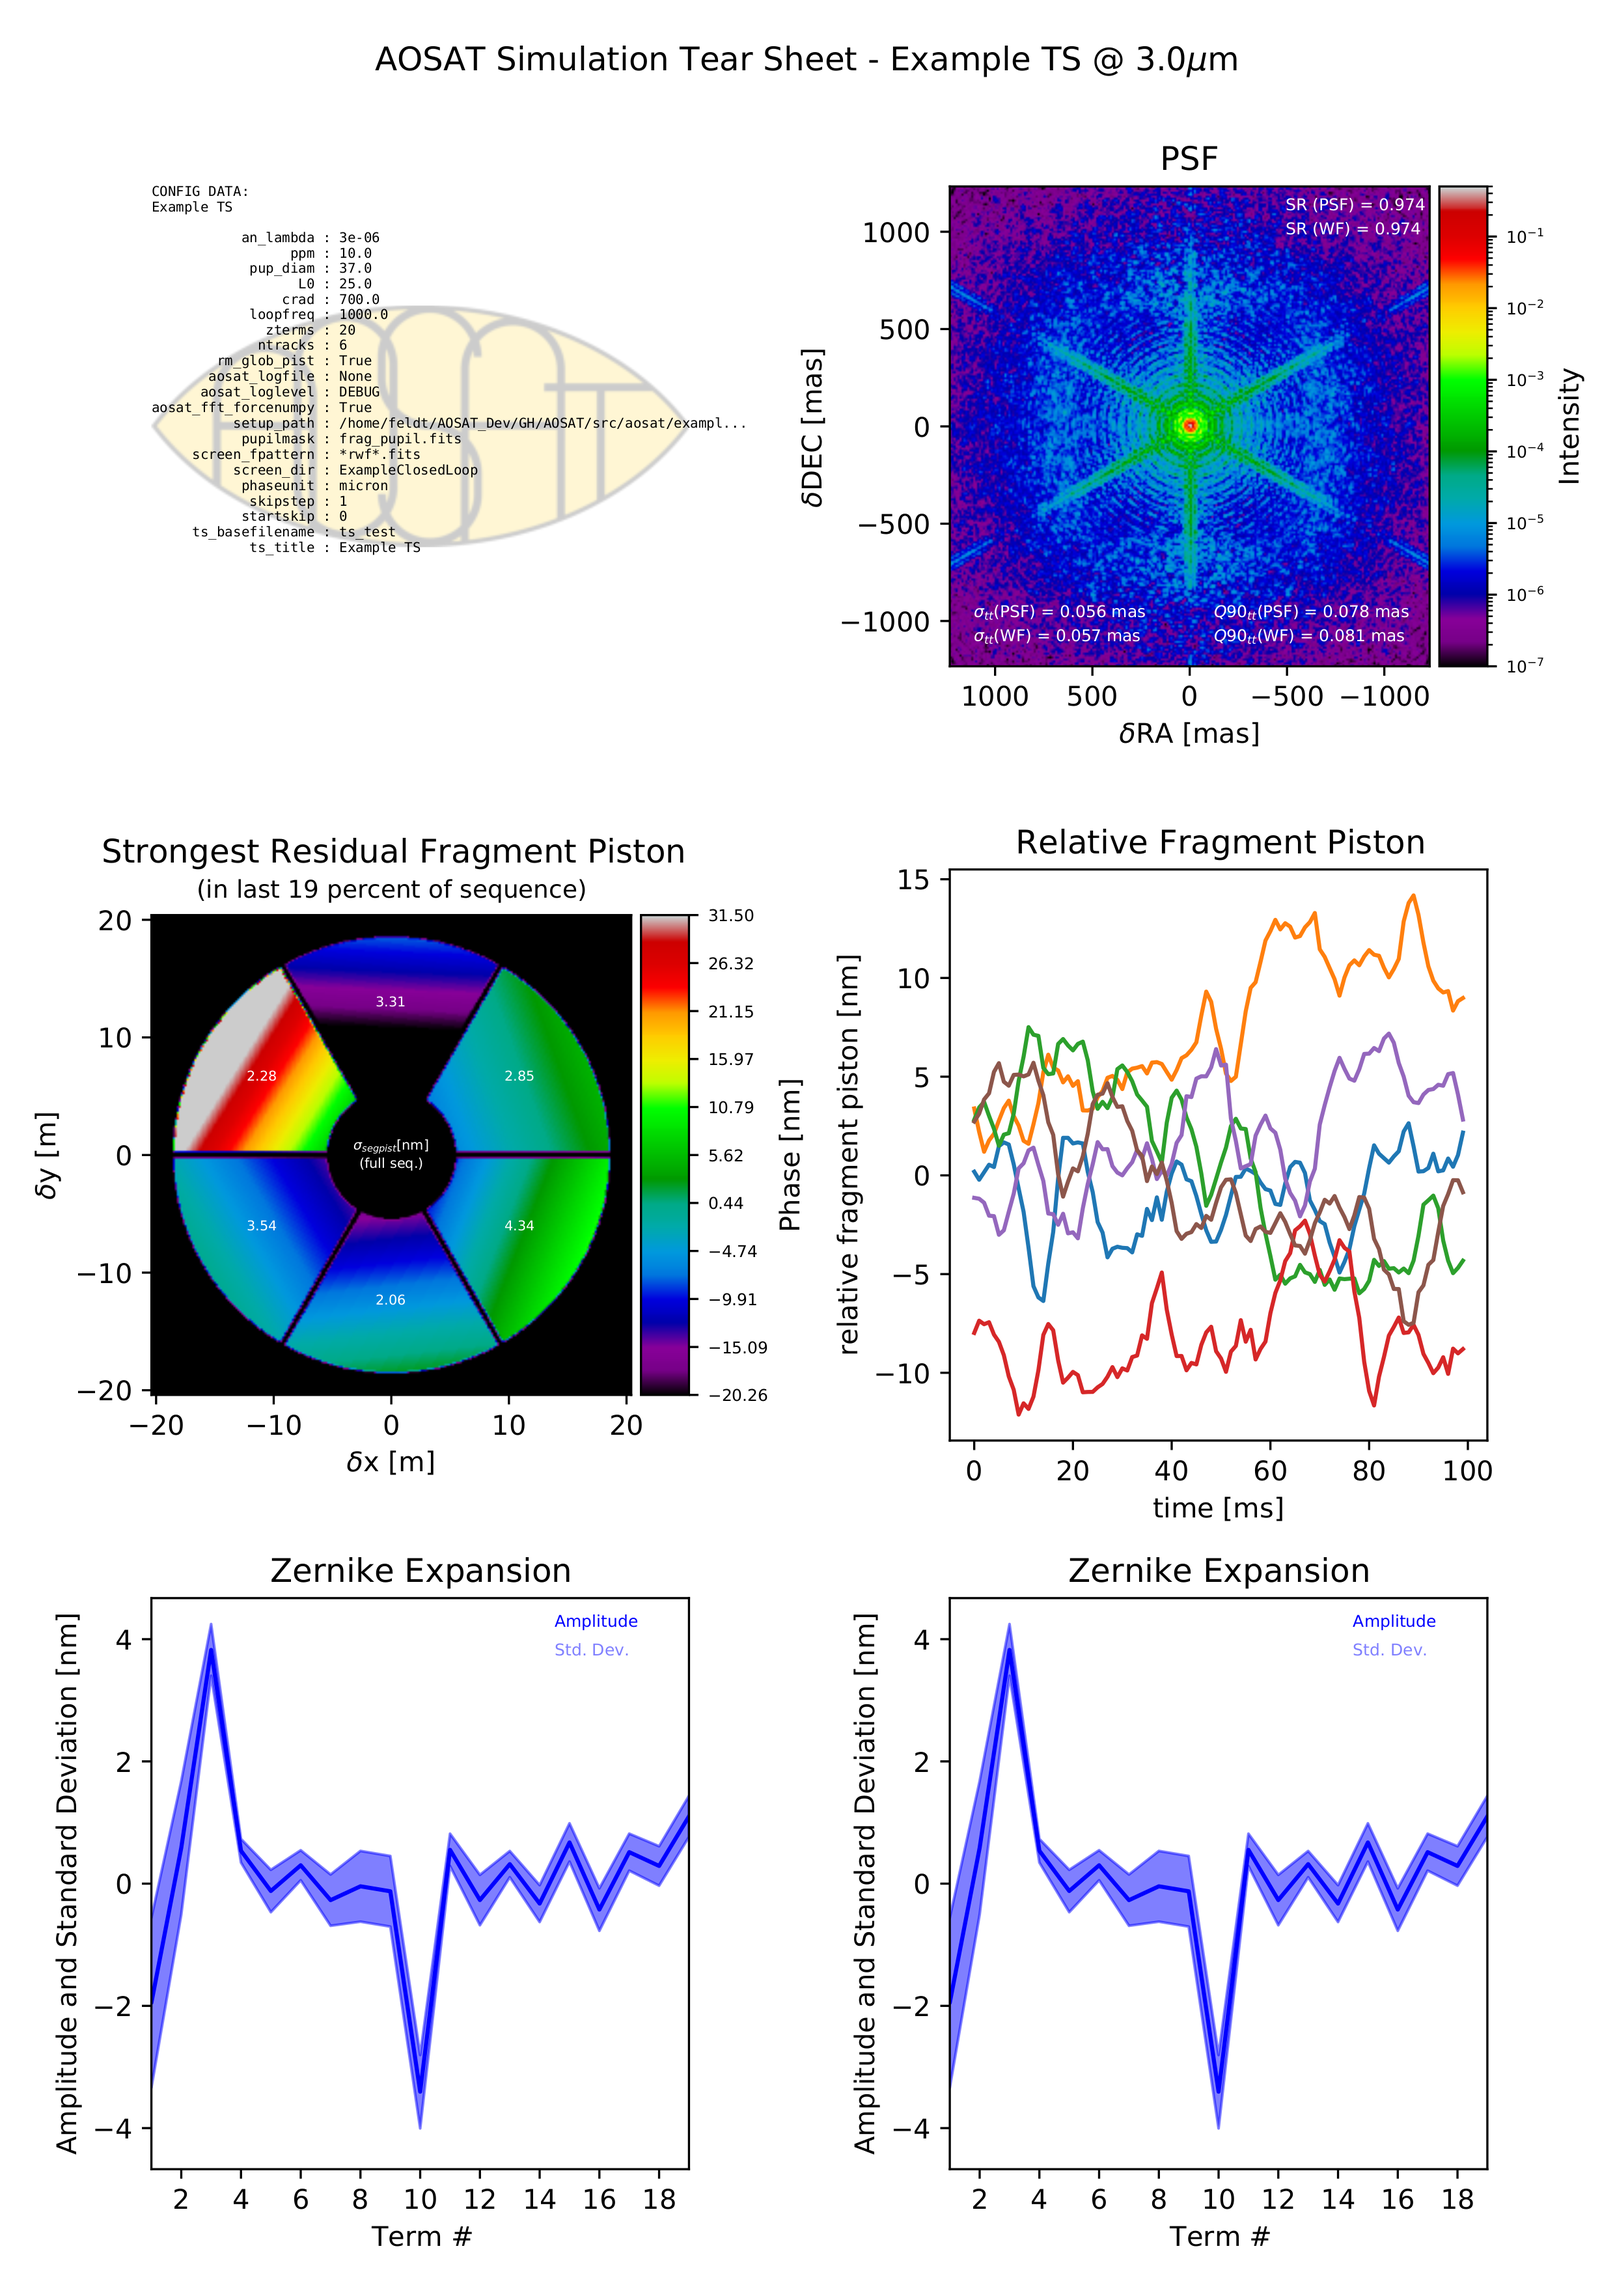
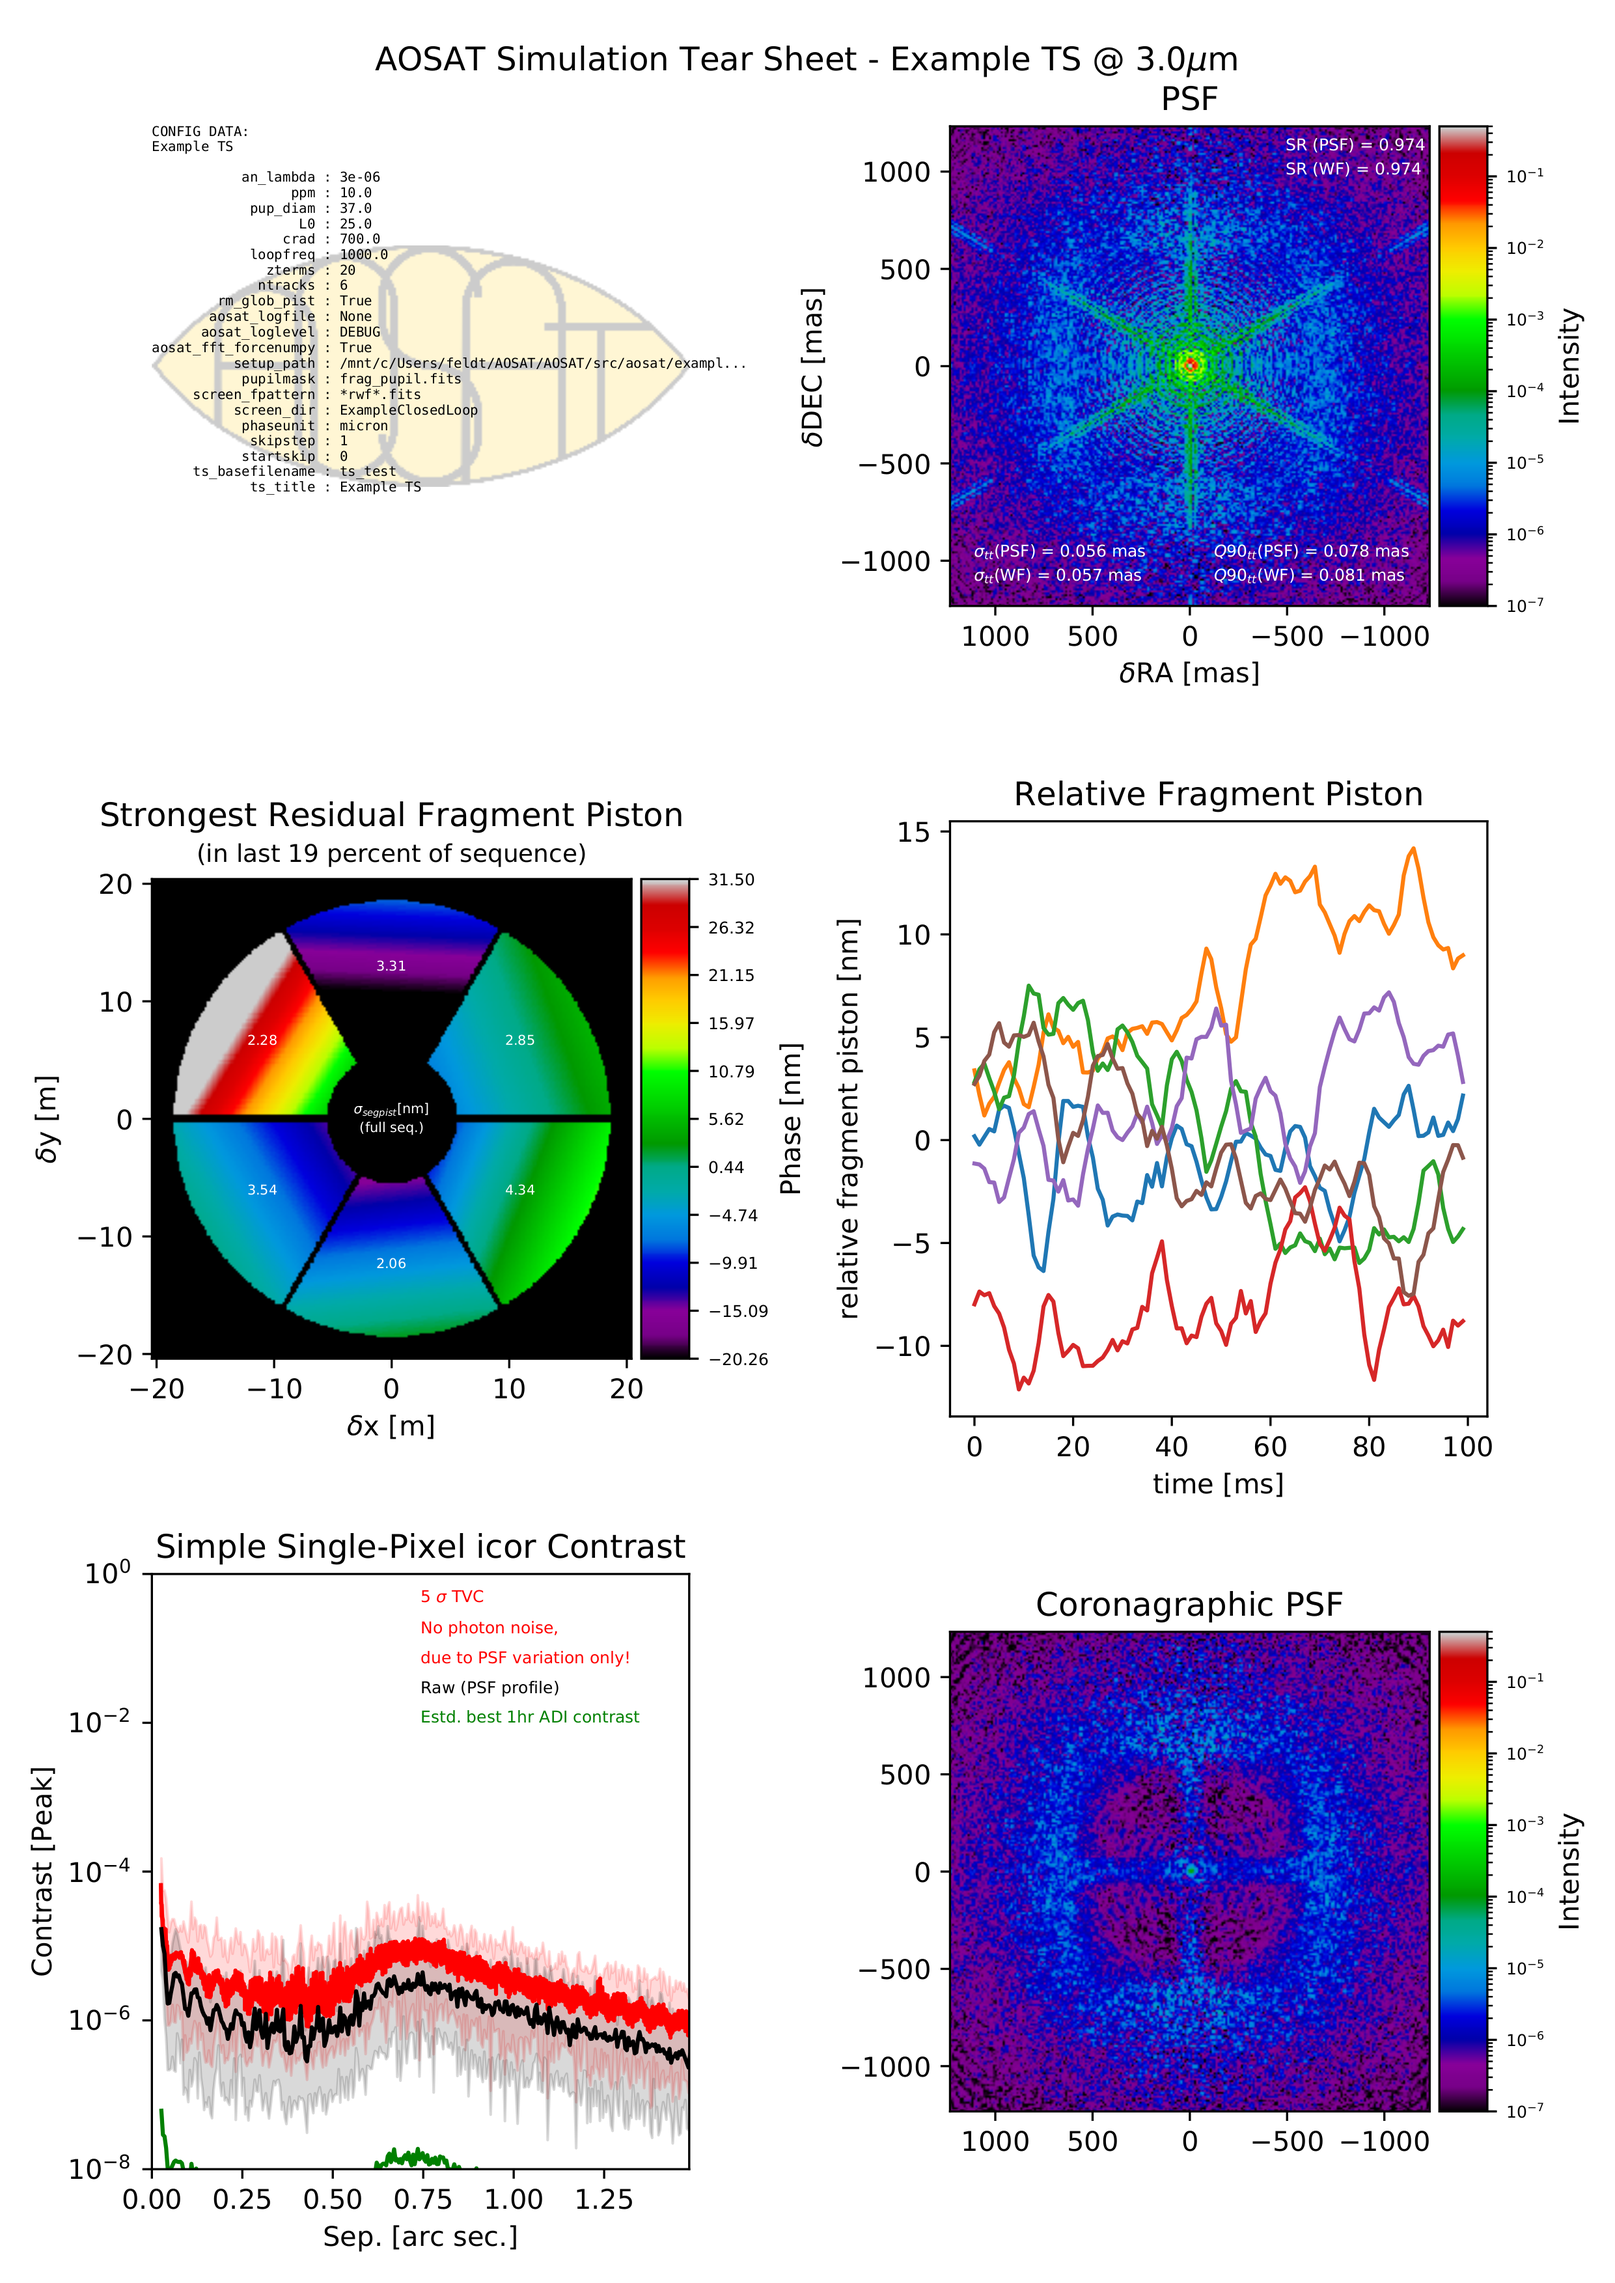
paper update

diff --git a/src/aosat/analyze.py b/src/aosat/analyze.py
@@ -363,7 +363,7 @@ def tearsheet(config_file):
     ##
     ## add all available analyzers, then run
     ##
-    analyzers=[psf_analyzer(sd), frg_analyzer(sd), zrn_analyzer(sd), zrn_analyzer(sd),phs_analyzer(sd),sps_analyzer(sd),tvc_analyzer(sd,ctype='icor'), tvc_analyzer(sd,ctype='nocor')]
+    analyzers=[psf_analyzer(sd), frg_analyzer(sd), tvc_analyzer(sd,ctype='icor'), tvc_analyzer(sd,ctype='nocor'),phs_analyzer(sd),zrn_analyzer(sd),sps_analyzer(sd)]
     run(analyzers)
     ##
     ## plot

diff --git a/paper.md b/paper.md
@@ -31,7 +31,7 @@ atmosphere in real time is becoming ever more common in astronomy.  Increasingly
 standard facility that supports any type of standard instrumentation, so-called single-conjugate
 AO (SCAO) is part of a large number of projects currently in one of their pre-commissioning phases
 (@metis; @micado; @harmoni; @nfiraos; @gmt; for an overview see @hippler:2019).  In these phases, the
-design of SCAO systems relies heavily on simulations, the typical (SC)AO simulation package [@compass; @oomao; @caos]
+design of SCAO systems relies heavily on simulations, the typical (SC)AO simulation package [@fidgit; @compass; @oomao; @caos]
 provides a few numbers that characterize the system's performance during the simulation,
 plus the residual wavefronts at each time step.  The numbers provided are typically the "Strehl
 ratio", a single measure for the quality of an optical image, plus it's variation across wavelengths,
